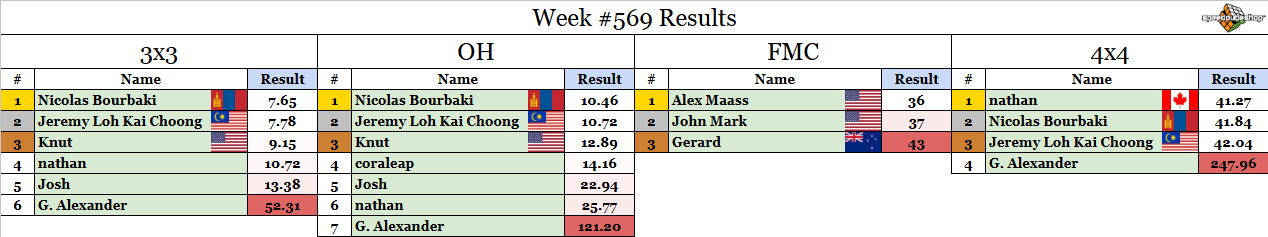
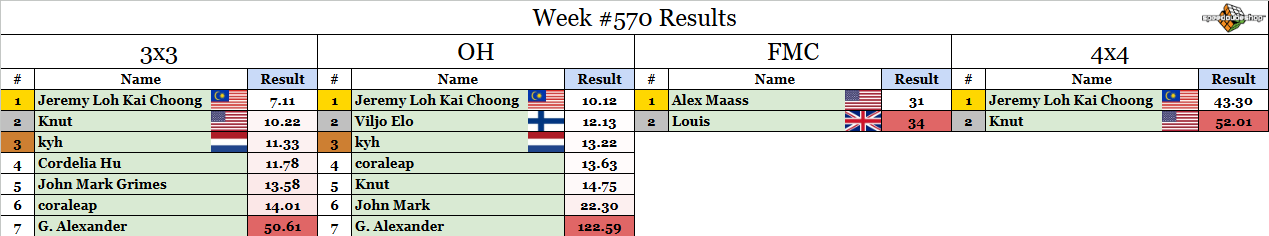
weekly comp update

Changed region(s): [[0.0, 0.178, 1.0, 1.0], [0.0, 0.0, 1.0, 0.1483]]

diff --git a/src/weeklycomp/post.md b/src/weeklycomp/post.md
@@ -1,8 +1,8 @@
-## Weekly Competition #570 
+## Weekly Competition #571 
  
 This weekly competition is proudly sponsored by SpeedCubeShop.com. One competitor will be selected at random to receive a $5 SCS gift card! 
  
-Congrats to last week's winner by a random draw: **Alex Maass**. DM me for the prize. 
+Congrats to last week's winner by a random draw: **G. Alexander**. DM me for the prize. 
  
 Check whether or not you participated this week yet at [https://bit.ly/RMSWeeklyCompSummary](https://bit.ly/RMSWeeklyCompSummary)  
  
@@ -16,30 +16,29 @@ Check whether or not you participated this week yet at [https://bit.ly/RMSWeekly
  7. The comp runs until Sunday 5pm Eastern time (more or less). Enter your times using the forms links below. 
  
 ### 3x3: [Submission Form](https://forms.gle/H5xoCWvGKnZ92fQt8) 
- 1. D2 L2 F2 U B2 D L2 D' L2 R2 D L' U2 B R' B R2 D' L' F D 
- 2. U2 R' D L2 B2 F2 U R2 F2 U B2 L2 R' F' L' U B F R2 U 
- 3. D F' R2 U B2 U' F2 D' F2 L2 D' F2 B R U' L' U' B U2 L 
- 4. B' U' F2 R2 U R2 D B2 L2 U L' F' L F2 D F' U F L 
- 5. D2 L2 U2 R2 F L2 B D2 L2 D2 L F2 R D2 B' U' B2 D F' D2 
+ 1. R2 B R2 F' D2 B' U2 L2 U2 F U B' R D' R' D' B2 R F D' 
+ 2. R2 B2 R2 U2 L2 U' L2 U' R2 B2 L2 U' F' L B R2 F2 U2 L' D' U' 
+ 3. B2 L2 U2 B2 D2 F2 R F2 R D2 L R B' U' B D' B2 R B L' R 
+ 4. U2 F U2 L2 B' R2 F R2 U2 B F2 R U2 B' F' U' B' D' R D2 B2 
+ 5. L2 R2 B' U2 L2 F U2 F' L2 B2 U2 D F2 R' D R2 B2 L' B U 
  
 ### OH: [Submission Form](https://forms.gle/UgRLW3K1d5KkMGfM9) 
- 1. F2 R' U2 F2 R' D2 F2 R' U2 L F2 L B' F2 D B' F2 D2 R B' 
- 2. D' R B R2 U2 F2 D2 B' U2 B D2 L2 F' D L F L D' L F' 
- 3. R2 B2 L2 B2 U2 B' D2 L2 R2 F R2 F L' D B U L U F L B2 
- 4. R2 F' B2 U2 F2 U' F2 L2 F2 U R2 B2 L' R' F D' L' B' U R 
- 5. R2 D F2 L2 R2 U B2 D2 L2 D' L2 B2 F' D F2 R' F U2 B' U' L2 
+ 1. R2 B2 U2 L B' R U L2 U2 F2 U2 F B2 R2 F' L2 U2 R2 B' U B2 
+ 2. F' R F' U R F R F D' R2 L2 B' U2 F' L2 D2 R2 L2 F2 U2 
+ 3. L' D2 U2 L2 B L2 D2 R2 B D2 F' L' U2 B U' L' R' F2 R' 
+ 4. R2 F2 D' U' L2 D' F2 D' L2 F2 L2 U R F' U2 B' F' U L2 B2 
+ 5. R2 B L2 F L2 U2 L2 U2 B L2 R' U2 B2 D' R2 B F' D F' R' 
  
 ### FMC: [Submission Form](https://forms.gle/1P9VUgZmA1pibwvL9) 
- 1. R' U' F B L B D2 B U2 L2 U2 B F2 L2 D2 F D' B F L' F' U' R B' R' U' F 
+ 1. R' U' F U R2 D' R' L F D F U2 L2 B2 L2 B D2 R2 D2 F U B R' U' F 
  
 ### 4x4: [Submission Form](https://forms.gle/bHNjncvEcPvFWBP2A) 
- 1. U B2 R B U' R D L' B2 U F2 U2 F2 B2 U B2 R2 U' B Fw2 Uw2 R2 Uw2 R U Fw2 R' U2 D Fw2 U Fw' D' R' U' B2 Rw F' U Uw Fw' L U2 F2 
- 2. L D R' D2 R' F2 R2 B2 L B2 R' D2 F' U R U2 B R' B R' Fw2 U' Rw2 U2 L Fw2 L2 U' L2 U L' B2 Fw' Uw2 Fw' U2 D2 B Uw' Rw2 Fw' U' L Uw' 
- 3. F2 D' F2 B2 U' B2 U2 F2 D2 L' F2 B R' F' U' D' R' D Fw2 D2 R B2 Uw2 B' D2 R' B' Uw2 F Rw2 U' Uw' Fw2 Uw' Fw2 Uw Rw' F2 Rw Uw R2 Rw 
- 4. U' L2 U' L' B L2 D' F2 R' F2 U L2 U2 L2 U R2 L2 B2 D Rw2 D' R F2 Uw2 Rw2 U' R Rw2 U2 L2 U' Uw2 F R' U' L' Fw' Rw' B' Uw' F Uw Fw U Fw2 
- 5. B D' F2 R2 D2 F2 U L2 U2 D F' B2 U L B' D B R' L' U' Rw2 B Fw2 U' R2 F2 B' Uw2 B' Fw2 R2 Rw' B U2 L B' R' Rw' Uw' B Fw Uw' B' R' L' 
+ 1. U B' R' L B2 R2 U L2 D2 F B2 D' B2 U' F2 D' L2 F2 R2 B2 R2 Uw2 Fw2 Uw2 F2 B R2 Rw2 U' Rw2 U Uw2 B' Rw' U2 Fw2 Uw2 Rw F Fw Uw R' Uw B2 L' 
+ 2. F2 B L F2 U2 D2 R L' U2 F2 L' B' D F2 U B2 R2 L' D' Rw2 Uw2 F D' Rw2 D2 B' U' Uw2 R2 Fw2 L2 Rw' B D' R' L' D Rw Uw F Uw F2 Uw' 
+ 3. B' R B U2 R2 B2 L2 U' L2 U' D2 F2 D R L2 U' R2 F L U L2 Rw2 D F2 R Fw2 D R L' Fw2 L' U2 Fw2 D2 Fw' D' L F' Fw U Uw B2 Fw' U Uw L F2 
+ 4. U' B' L U D2 B U2 D B2 R' U2 F2 R2 F2 R D2 R' L' D' R' Rw2 Fw2 R' Fw2 D2 R2 U' Uw2 R2 B2 R U' Fw R' U' F B2 Uw' B' Rw F2 Uw2 Fw2 Uw Rw' 
+ 5. R L2 F U D2 B R' U L2 D2 F2 D2 L2 U2 L' U2 D2 L B2 D' Uw2 F' Rw2 F D2 Fw2 Uw2 R Rw2 F' R2 F Uw' B' Fw2 U2 R B Uw' Fw' Uw2 B' D' Rw' 
  
 ### Winning FMC solutions from last week: 
- 1. Alex Maass, 36 moves: [SOLUTION](https://bit.ly/4qp0dfu) 
- 2. John Mark, 37 moves: [SOLUTION](https://bit.ly/4tEuaem)
- 3. Gerard, 43 moves: [SOLUTION](https://bit.ly/4qnJkl6)
+ 1. Alex Maass, 31 moves: [SOLUTION](https://bit.ly/3MonrEx)
+ 2. Louis, 34 moves: [SOLUTION](https://bit.ly/4csZu9x)
